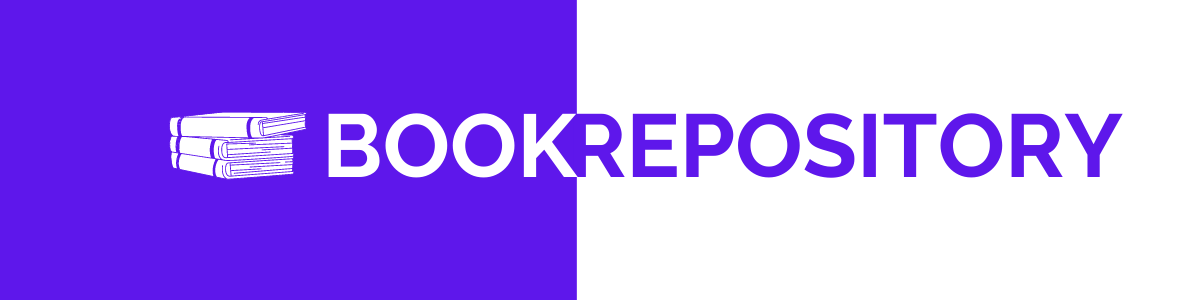
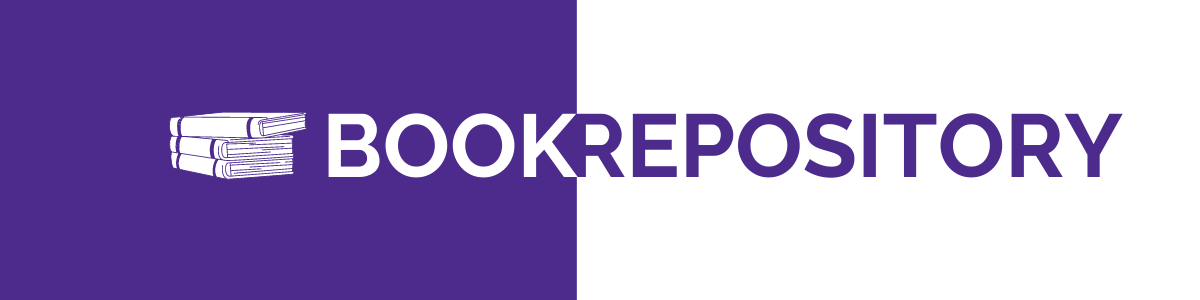
Alterações na responsividade

diff --git a/Exercício de Casa/index.html b/Exercício de Casa/index.html
@@ -11,52 +11,63 @@
 </head>
 
 <body>
-    <div class="cabecalho">
+    <header class="header">
+      <img src="./img/book repository.png" alt="Logotipo Book Repository" class="img-header"/>
+    </header>
+    <main> 
+      <section class="corpoFormulario">
+        
+        <form onsubmit="criarTabela(event)" class="formulario">
+          <div class="div-formulario">
+            <label class="titulo-label" for="titulo">Título</label>
+            <input type="text" id="titulo" class="caixaInput">
+          </div>
+          <div class="div-formulario"></div>
+            <label class="titulo-label" for="autor">Autor</label>
+            <input type="text" id="autor" class="caixaInput">
+          </div>
+          <div class="div-formulario"></div>
+            <label class="titulo-label" for="isbn">ISBN</label>
+            <input type="number" id="isbn" class="caixaInput">
+          </div>
+          <div class="div-formulario"></div>
+            <label class="titulo-label" for="data">Data de publicação</label>
+            <input type="date" id="data" class="caixaInputData">
+          </div>
+          <div class="div-formulario">
+            <label class="titulo-label" for="paginas">Nº de páginas</label>
+            <input type="number" id="paginas" class="caixaInput">
+          </div>
+          <div>
+          <input type="submit" class="botaoEnviarFormulario">
+          </div>
+        </form>
 
-    </div>
-
-    <div class="conteudo">
-
-      <form onsubmit="criarTabela(event)" class="formulario">
-        
-        <h1>Listagem de Livros</h1>
-        <label for="titulo">Título</label>
-        <input type="text" id="titulo" class="inputDeco">
-        <label for="autor">Autor</label>
-        <input type="text" id="autor" class="inputDeco">
-        <label for="isbn">ISBN</label>
-        <input type="number" id="isbn" class="inputDeco">
-        <label for="data">Data de publicação</label>
-        <input type="date" id="data" class="inputDeco">
-        <label for="paginas">Nº de páginas</label>
-        <input type="number" id="paginas" class="inputDeco">
-        <div>
-          <input type="submit" class="botaoEnviar">
-        </div>
-      </form>
-      
-    <table class="corpoTabela">
-      <thead>
-        <tr> 
-          
-          <th class="celulasTabela">Título</th>
-          <th class="celulasTabela">Autor</th>
-          <th class="celulasTabela">ISBN</th>
-          <th class="celulasTabela">Data de Publicação</th>
-          <th class="celulasTabela">Nº de páginas</th>
-          <th class="celulasTabela">Hora/Data de Inserção</th>
-        </tr>
-        
-      </thead>
-      
-      <tbody id="dadosTabela">
-        
-        
-      </tbody>
-      
-    </table>
-  </div>
+      </section>
     
+    <section class="corpoDaTabela">  
+      <table class="tabela">
+        <thead class="cabecalho-tabela">
+          <tr> 
+            
+            <th class="celulasTabela">Título</th>
+            <th class="celulasTabela">Autor</th>
+            <th class="celulasTabela">ISBN</th>
+            <th class="celulasTabela">Data de Publicação</th>
+            <th class="celulasTabela">Nº de páginas</th>
+            <th class="celulasTabela">Hora/Data de Inserção</th>
+          </tr>        
+        </thead>
+        
+        <tbody class="dados-tabela" id="dadosTabela">
+          
+          
+        </tbody>
+        
+      </table>
+    </section>
+    
+    </main>
     <script src="./script/script.js"></script>
-</body>
-</html>
+  </body>
+  </html>

diff --git a/Exercício de Casa/style/style.css b/Exercício de Casa/style/style.css
@@ -1,5 +1,5 @@
 *{
-  background-color: #5E17EB;
+  background-color: #4C2B8D;
 }
 body{
   font-family: 'Quicksand', sans-serif;
@@ -7,52 +7,74 @@ body{
   align-items: center;
 }
 
-.cabecalho{
-  background-image: url(../img/book\ repository.png);
-  background-position: center;
-  background-size: auto;
+/* ~~~~~~ Mobile first ~~~~~~*/
 
+.header{
+  max-width: 80%;
+  max-height: 70px;
+  margin: 5%;
+  text-align: center;
 }
-
-
-/* decoração dos elementos input */
-.inputDeco{
+.img-header{
   width: 100%;
-  height: 30px;
+  padding: 2px;
+}
+/* corpo do formulário */
+.corpoFormulario {
+  width: 80%;
+  padding: 10%;
+}
+/* decoração dos elementos input */
+.caixaInput{
+  width: 100%;
+  height: 2rem;
   background-color:#FFFFFF;
   display: flex;
-  border-radius: 10px;
-  border-style: hidden;
-}
-
-/* decoração do botão de envio */
-.botaoEnviar{
-  background-color: #FFFFFF;
-  width: 90px;
-  border-radius: 10px;
-  border-style: hidden;
-  align-content: space-around;
-  
-}
-
-.corpoTabela {
-  background-color: #FFFFFF;
-  margin: 3%;
-
-
-}
-.celulasTabela{
-  background-color: #FFFFFF;
-  color: #5E17EB;
-}
-
-.conteudo {
-  display: flex;
-  flex-direction: column;
   align-items: center;
-  justify-content: space-between;
+  justify-content: center;
+  flex-direction: column;
+  border-radius: 10px;
+  border-style: hidden;
 }
-
+.caixaInputData{
+  width: 100%;
+  height: 2rem;
+  background-color:#FFFFFF;
+  text-align: center;
+  display: flex;
+  align-items: center;
+  justify-content: center;
+  flex-direction: column;
+  border-radius: 10px;
+  border-style: hidden;
+}
+/* decoração do botão de envio */
+.botaoEnviarFormulario{
+  background-color: #FFFFFF;
+  color: #4C2B8D;
+  font-size: 15px;
+  width: 40%;
+  height: 1.5rem;
+  margin-top: 2%;
+  border-radius: 10px;
+  border-style: hidden; 
+}
+/* section do corpo da tabela */
+.tabela, .celulasTabela{
+  background-color: #FFFFFF;
+  color: #4C2B8D;
+  padding: 1%;
+  margin: 10%;
+}
+th{
+  font-size: 10px;
+  padding: 1%;
+  word-break: break-word;
+}
+.dados-tabela{
+  color: #FFFFFF;
+  word-break: break-word;
+}
 .botao-tabela{
   width: 15px;
   height: 15px;
@@ -62,5 +84,67 @@ body{
   background-image: url(../img/lixeira.png);
   border-style: none;
   border-radius: 2px;
-  background-color: #5E17EB;
+  background-color: #4C2B8D;
+}
+
+/* ~~~~~Tablet ~~~~~~ */
+@media (min-width: 768px) {
+
+  .header{
+    height: 100%;
+    padding: 5%;
+  }
+  .titulo-label{
+    font-size: 20px;
+  }
+  .caixaInput{
+    font-size: 20px;
+  }
+  .botaoEnviarFormulario{
+    font-size: 18px;
+    width: 15%;
+  }
+  .tabela{
+    margin-top: 1%;
+    padding: 1%;
+  }
+  th, .dados-tabela{
+    font-size: 18px;
+    text-align: center;
+  }
+  .botao-tabela{
+    width: 20px;
+  }
+  
+}
+@media (min-width: 1024px) {
+  .header{
+    height: 100%;
+    padding: 4%;
+  }
+  .titulo-label{
+    font-size: 20px;
+  }
+  .caixaInput{
+    font-size: 20px;
+    width: 100%;
+    height: 2rem;
+  }
+  .botaoEnviarFormulario{
+    font-size: 18px;
+    width: 15%;
+    height: 2rem;
+  }
+  .tabela{
+    width: 80%;
+    margin-top: 10px;
+  }
+  th, .dados-tabela{
+    font-size: 20px;
+    text-align: center;
+  }
+  .botao-tabela{
+    width: 20px;
+  }
+  
 }
